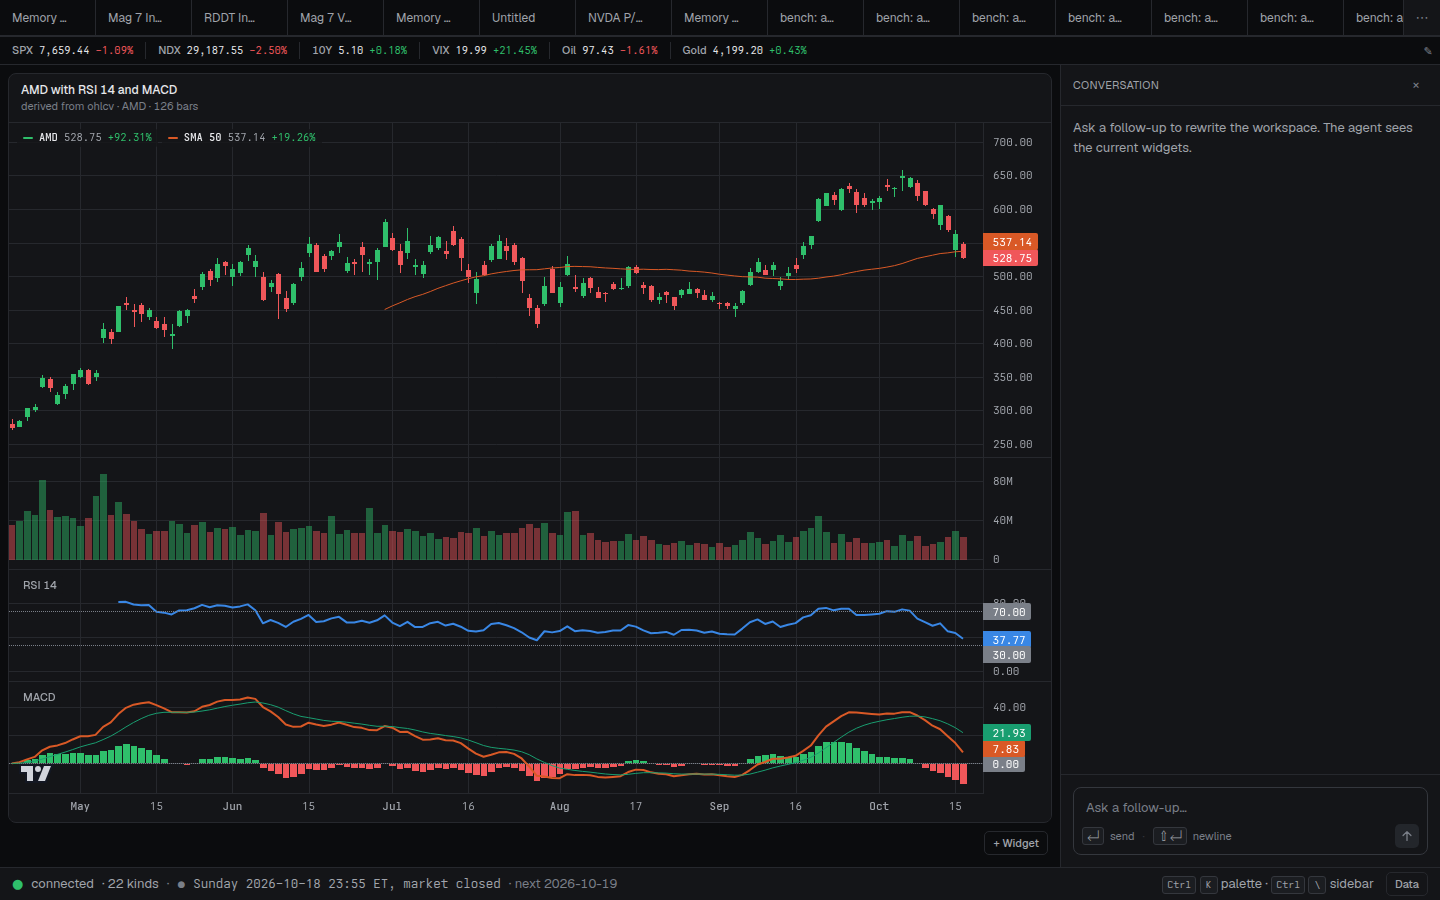
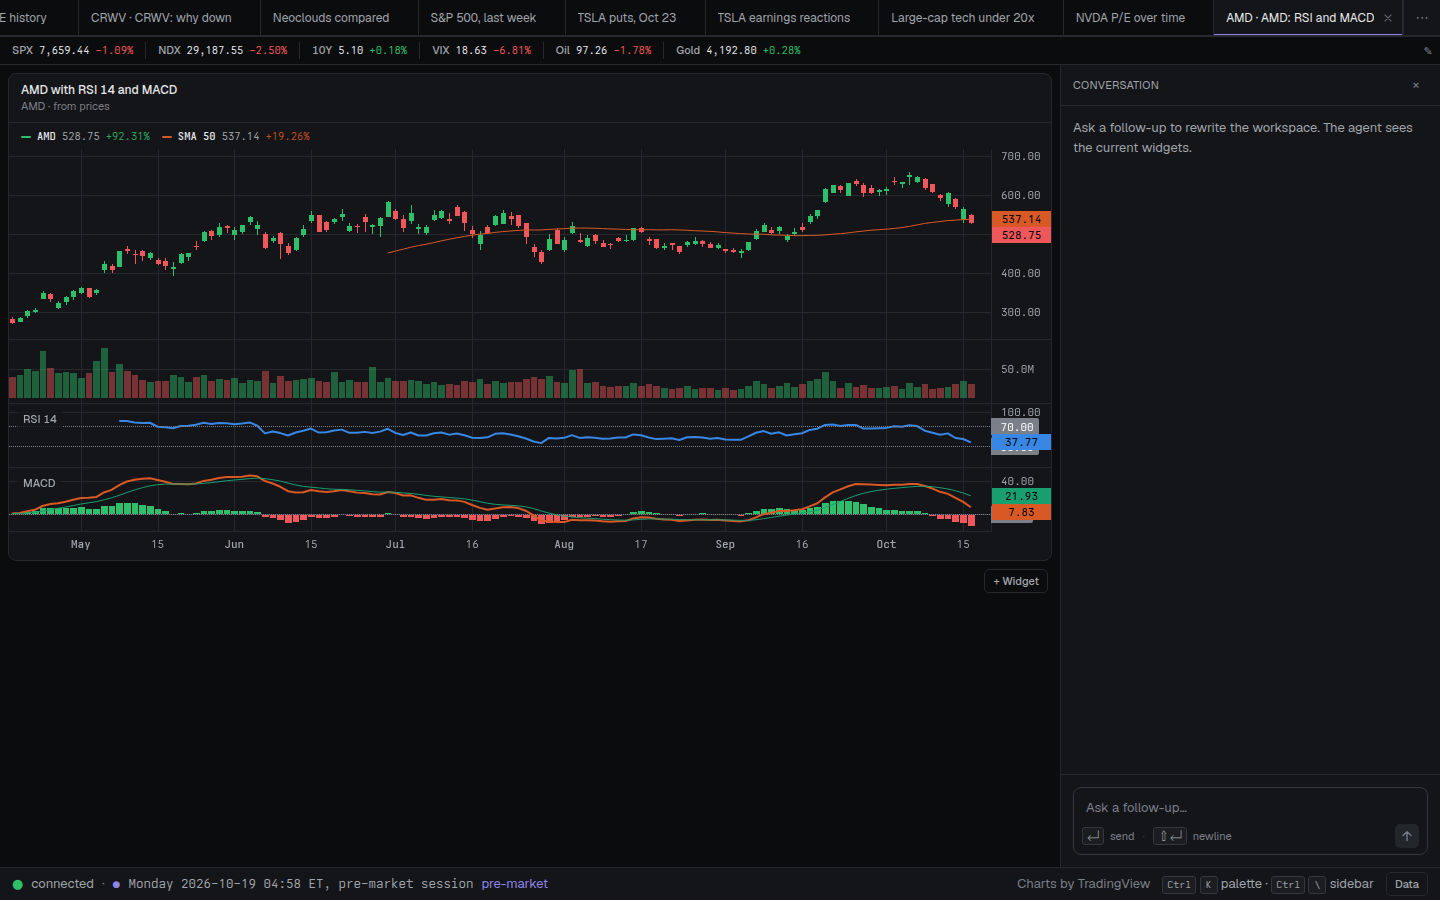
v2 taste round: final screenshots, the round in the acceptance note, PLAN.md corrections
Facts and stat labels wrap at words and values never truncate ("Median next-day mo… 8.…"); row cards use display names and enum readings; numeric columns are as wide as a word cell in them ("Strong buy" under APLD); accept.mjs waits for the selected tab to name the case's workspace. Screenshots: the twelve hand-built cases at both viewports (accept-<case>-<viewport>.png) and the six agent reruns (taste-after-agent-<case>-<viewport>.png). PLAN.md section 17 records the corrections the round made to the Instinct section, with the reasons.

diff --git a/packages/web/src/views/TableView.tsx b/packages/web/src/views/TableView.tsx
@@ -1,10 +1,11 @@
 import { useMemo, useState, type FC } from 'react'
 import clsx from 'clsx'
 import { columnIndex, controlFor, type Column, type Format, type Frame, type TableControl } from '@terminal/core'
-import { DataTable, EMPTY_CELL, EmptyState, direction, formatCell, type CellFormat } from '@terminal/ui'
+import { DataTable, EMPTY_CELL, EmptyState, direction, displayText, formatCell, type CellFormat } from '@terminal/ui'
 import type { ViewProps } from './types'
 import { VirtualTable } from '../components/VirtualTable'
 import { FactsCard } from './FactsCard'
+import { columnLabel } from './labels'
 import { controlOf, datasetsFor, emptyHintFor, primaryFrame, viewOf } from './fields'
 
 export type SortSpec = { column: string; dir: 'asc' | 'desc' }
@@ -155,10 +156,26 @@ export function rowExtremesFor(frame: Pick<Frame, 'columns' | 'rows'>, metricCol
 }
 
 /** A pivoted compare table: a text `metric` column first and numeric columns after it, one per symbol. */
-export function pivotMetricColumn(frame: Pick<Frame, 'columns'>): string | undefined {
+export function pivotMetricColumn(frame: Pick<Frame, 'columns' | 'rows'>): string | undefined {
   const first = frame.columns[0]
   if (!first || first.type !== 'string' || !/^(metric|field|item|measure|line)$/i.test(first.name)) return undefined
-  return frame.columns.slice(1).every((c) => c.type === 'number') && frame.columns.length >= 3 ? first.name : undefined
+  // Symbol columns are numbers, or mostly numbers when the pivot carries a row of words (a "Rating" row makes pandas
+  // type every symbol column as object).
+  const rest = frame.columns.slice(1).map((_, i) => i + 1)
+  return rest.length >= 2 && rest.every((i) => frame.columns[i]!.type === 'number' || mostlyNumeric(frame.rows, i)) ? first.name : undefined
+}
+
+/** At least four in five of a column's non-empty cells are numbers. */
+export function mostlyNumeric(rows: readonly unknown[][], i: number): boolean {
+  let n = 0
+  let num = 0
+  for (const r of rows) {
+    const v = r[i]
+    if (v == null || v === '') continue
+    n++
+    if (typeof v === 'number' || (typeof v === 'string' && v.trim() !== '' && Number.isFinite(Number(v)))) num++
+  }
+  return n > 0 && num / n >= 0.8
 }
 
 /** The frame projected onto the control's columns, in its order. */
@@ -182,7 +199,14 @@ export const TableView: FC<ViewProps> = ({ widget, frames }) => {
   const sort = state?.key === sortKey ? state.sort : table?.sort
 
   const projected = useMemo(() => (frame && table ? projectFrame(frame, table.columns) : frame), [frame, table])
-  const formats = useMemo(() => formatsOf(table), [table])
+  const formats = useMemo(() => {
+    const out = formatsOf(table)
+    // An object column of numbers (a pivot with a row of words) reads as numbers: right-aligned, two decimals (change 5).
+    if (projected) projected.columns.forEach((c, i) => {
+      if (out[c.name] === 'text' && c.type === 'string' && c.name !== projected.columns[0]?.name && mostlyNumeric(projected.rows, i)) out[c.name] = 'price'
+    })
+    return out
+  }, [table, projected])
   const extremes = useMemo(() => {
     if (!projected || !table) return undefined
     // A pivoted compare table (metrics as rows) marks across each row whether or not the control asked (the compare recipe's shape).
@@ -249,12 +273,13 @@ const RowCards: FC<{ frame: Frame; rows: unknown[][]; formats: Record<string, Ce
               {rest.map((c) => {
                 const v = row[columnIndex(frame, c)]
                 const f = formats[c] ?? 'text'
-                const text = formatCell(v, f)
+                const text = f === 'text' && typeof v === 'string' ? displayText(v) : formatCell(v, f)
                 const dir = f === 'change' ? direction(v) : null
                 return (
                   <div key={c} className="flex min-w-0 flex-col">
-                    <span className="truncate text-fg-3" title={labels[c] ?? c}>
-                      {labels[c] ?? c.replace(/_/g, ' ')}
+                    {/* Display names, wrapped at words rather than cut (change 11: "num estimates", "previous report date"). */}
+                    <span className="line-clamp-2 break-words text-fg-3" title={labels[c] ?? columnLabel(c)}>
+                      {labels[c] ?? columnLabel(c)}
                     </span>
                     <span className={clsx('line-clamp-2 break-words', f !== 'text' && 'num', text === EMPTY_CELL ? 'text-fg-3' : dir === 'up' ? 'text-up' : dir === 'down' ? 'text-down' : 'text-fg')} title={typeof v === 'string' ? v : undefined}>
                       {text}

diff --git a/packages/ui/src/components/DataTable.tsx b/packages/ui/src/components/DataTable.tsx
@@ -113,7 +113,11 @@ export function numberWidths(columns: readonly Column[], rows: readonly unknown[
     const fixed = columnWidth(c.name, f, headers[c.name])
     if (fixed === undefined || f === 'link') return
     let longest = 0
-    for (const row of rows) longest = Math.max(longest, formatCell(row[i], f, now).length)
+    for (const row of rows) {
+      const v = row[i]
+      const word = typeof v === 'string' && v.trim() !== '' && !Number.isFinite(Number(v))
+      longest = Math.max(longest, word ? displayText(v).length : formatCell(v, f, now).length)
+    }
     const head = headers[c.name] ?? ''
     const word = Math.max(...head.split(/\s+/).map((w) => w.length)) * 7.4 + 30
     // The header on one line when that costs at most 128px ("Op cash flow", "EPS est."), else wrapped at words.
@@ -299,7 +303,9 @@ export const DataTable: FC<DataTableProps> = ({ columns, rows, formats, sort, on
               {visible.map((c) => {
                 const f = fmts[c.name] ?? 'text'
                 const v = row[indexOf.get(c.name)!]
-                const text = f === 'text' && typeof v === 'string' && c.name !== 'symbol' && c.name !== 'etf' ? displayText(v) : formatCell(v, f, nowMs)
+                // A word in a numeric column (a pivot's "Rating" row: "Buy" under CRWV) shows as the word, not an em dash.
+                const word = typeof v === 'string' && isNumericFormat(f) && v.trim() !== '' && !Number.isFinite(Number(v))
+                const text = (f === 'text' || word) && typeof v === 'string' && c.name !== 'symbol' && c.name !== 'etf' ? displayText(v) : formatCell(v, f, nowMs)
                 const dir = f === 'change' ? direction(v) : null
                 const mark = cellMark?.(row, c.name)
                 const numeric = isNumericFormat(f)

diff --git a/packages/web/src/views/FactsCard.tsx b/packages/web/src/views/FactsCard.tsx
@@ -81,14 +81,15 @@ export const FactsCard: FC<ViewProps> = ({ widget, frames }) => {
               const long = typeof f.raw === 'string' && f.raw.length > 24
               return (
                 <div key={f.column} data-fact={f.column} className="flex min-w-0 items-baseline justify-between gap-2">
-                  <span className="truncate text-fg-3" title={f.label}>
+                  {/* The label wraps at words and the value never gives way: "Median next-day move 8.20%", not "Median next-day mo… 8.…". */}
+                  <span className="line-clamp-2 min-w-0 break-words text-fg-3" title={f.label}>
                     {f.label}
                   </span>
                   <span
                     data-field="value"
                     title={long ? String(f.raw) : undefined}
                     className={clsx(
-                      'min-w-0 truncate text-right',
+                      long ? 'min-w-0 truncate text-right' : 'shrink-0 text-right whitespace-nowrap',
                       f.format !== 'text' && f.format !== 'link' && 'num',
                       f.text === EMPTY_CELL ? 'text-fg-3' : f.dir === 'up' ? 'text-up' : f.dir === 'down' ? 'text-down' : 'text-fg',
                     )}

diff --git a/packages/web/src/views/__tests__/TableView.test.tsx b/packages/web/src/views/__tests__/TableView.test.tsx
@@ -177,6 +177,14 @@ describe('TableView from the table control (v2)', () => {
     expect(ex.get(frame.rows[2]!)).toEqual({ IREN: 'best', NBIS: 'worst' })
   })
 
+  it('treats symbol columns typed as strings by a row of words as numbers (a pivot with a Rating row)', () => {
+    const frame = { columns: [{ name: 'metric', type: 'string' as const }, { name: 'CRWV', type: 'string' as const }, { name: 'NBIS', type: 'string' as const }], rows: [['EV/Revenue', 10.53, 35.06], ['Gross margin %', 70, 60], ['Market cap ($B)', 33.86, 42.01], ['Upside to target (%)', 128.99, 71.39], ['Rating', 'buy', 'buy']] }
+    expect(pivotMetricColumn(frame)).toBe('metric')
+    const ex = rowExtremesFor(frame, 'metric', ['CRWV', 'NBIS'])
+    expect(ex.get(frame.rows[0]!)).toEqual({ CRWV: 'best', NBIS: 'worst' })
+    expect(ex.get(frame.rows[4]!)).toBeUndefined()
+  })
+
   it('a table over one row renders the facts card (product rule 8)', () => {
     const { widget, frames } = fixture('v2-table-one-row')
     render(<TableView widget={widget} frames={frames} />)

diff --git a/packages/web/src/views/StatView.tsx b/packages/web/src/views/StatView.tsx
@@ -265,7 +265,7 @@ export const StatView: FC<ViewProps> = ({ widget, frames }) => {
             <div data-details="" className="grid grid-cols-2 gap-x-5 gap-y-1.5 border-t border-border/60 pt-2.5 text-xs leading-5 @[360px]/widget:grid-cols-3">
               {details.map((d) => (
                 <div key={d.label} className="flex min-w-0 items-baseline justify-between gap-2">
-                  <span className="truncate text-fg-3">{d.label}</span>
+                  <span className="line-clamp-2 min-w-0 break-words text-fg-3">{d.label}</span>
                   <span className="num whitespace-nowrap text-fg-2">{d.text}</span>
                 </div>
               ))}

diff --git a/docs/notes/accept-v2-2026-10-19.md b/docs/notes/accept-v2-2026-10-19.md
@@ -235,3 +235,24 @@ The three user prompts pass; the twelve acceptance prompts pass the rubric and t
 ## What the agent run will add
 
 With credit on the account: `BASE=http://127.0.0.1:4270 node scripts/prompt-bench.mjs --group v2-accept --out <dir>` builds the twelve workspaces through the agent, `node scripts/accept.mjs --runs <dir> --out docs/screenshots` scores them (now with the reply columns live: verification, chips, plain prose), and `--group v2` and `--group v1` give the rubric and regression runs. The hand-built fixtures are the expected shape per case; a diff between what the agent builds and `scripts/accept-cases.mjs` is the first thing to read.
+
+## Taste round (2026-10-19, PR "v2 taste round: the critic's fifteen changes")
+
+The critic's note (`docs/notes/taste-v2-2026-10-19.md`) scored the set 5 of 10 against Instinct and ranked fifteen changes. All fifteen landed on the branch `taste-round` in six commits (1; 2 and 3; 4; 5 to 7; 8 to 10; 11 to 13; 14 and 15) plus one commit of fixes found in the agent rerun, with `openterminal/main` (phase 3a) merged in before change 5. Server: the branch build on `127.0.0.1:4270` over a fresh copy of `~/.terminal`; Playwright's cached Chromium revision no longer matched the library, so `scripts/accept.mjs` takes `CHROMIUM_PATH`.
+
+Hand-built workspaces (`accept.mjs --build`), four rounds: 13 of 24 (after changes 1 to 4: the legend above the plot was not counted as chart content, and content-sized stat and facts cards sat at 35 to 58% of a tall 1920 cell), 23 of 24 (a sized text column overflowed the calendar table at 1440), then 24 of 24 twice; final screenshots `docs/screenshots/accept-<case>-<viewport>.png`.
+
+Agent, one prompt at a time (`prompt-bench.mjs <name> --out <dir>`, then `accept.mjs --runs <dir> --prefix accept-agent-`): the three user prompts and three of the critic's lowest-scored cases (nvda-pe 4, tsla-earnings 5, spy-backtest 5). Every reply verified every figure. Checklist 12 of 12 at the end, after four fixes the screenshots asked for (below). Final screenshots `docs/screenshots/taste-after-agent-<case>-<viewport>.png`; the critic's set is `accept-agent-<case>-<viewport>.png` on main.
+
+| case | verified | checklist 1440 / 1920 | the critic's "change first", now |
+|---|---|---|---|
+| crwv | 15/15 | pass / pass | CRWV's own candles with the news pins and the volume spike are the hero; peers beside it; the bonds table is on screen at 1440; the quotes are cards; badges 71.86/71.08 stack. Reply rounds "95M shares against a 32M average". |
+| neoclouds | 23/23 | pass / pass | The compare table is on screen at 1440, two grid columns wide with all four symbols, left-packed, best/worst bars per comparative row; no table at the far right of a 1,500 px widget. Reply still three paragraphs, paragraph 2 dense but rounded ("$51.6B", "1,027%"). |
+| spx | 35/35 | pass / pass | No red diagnostic: a muted "35 figures verified against the data" footer; chips at paragraph ends; the week is a faint band with 1px edges ending on Friday; index levels read 7,659.44. Candles are still wide (see below). |
+| nvda-pe | 15/15 | pass / pass | The P/E widget plots P/E (30.5x badge, 28 to 64 axis); no duplicate price chart; the stat's companions come from the newest row. |
+| tsla-earnings | 16/16 | pass / pass | "Next report" has one hero at body-size date and "After the close"; the reactions table marks only the signed moves with 2px bars; E pins sit on the line. Reply: "consensus $0.21, though another source shows $0.45". |
+| spy-backtest | 19/19 | pass / pass | The SMA chart is landscape under the equity curve with its x-axis; the trades table is on screen at 1920 with sentence-case headers ("Entry", "Exit date", "Status" centred). |
+
+Found by looking and fixed in the rerun commit: the "P/E (TTM)" widget drew the close (a dataset's declared key field is now the plotted measure, and the P/E example marks `pe` as key); a stat over a time series showed companions from the oldest row; a Mag 7 legend hid its seventh chip (chips past four series drop the last value and may take a third row); a pivoted compare table typed its symbol columns as strings because of a "Rating" row (mostly-numeric object columns read as numbers, and its marks work); the strike and tenor axes printed raw numbers because the price-based horizontal scale ignores `tickMarkFormatter`; facts labels truncated ("Median next-day mo… 8.…"); `accept.mjs` screenshotted the previous session's tab for its first case, and a hand-built `--build` deletes an agent workspace of the same name (rerun the agent case after).
+
+Not done as the critic wrote it: candles are not capped at 14px. `maxBarSpacing` caps them, but with twenty bars of a month in a 640px plot the cap left the right half of the plot empty, which read worse than wide candles. The TradingView attribution moved to the status bar once rather than to every widget's footer. Changes 1 to 3 were the previous bot's; the content-sized stat and facts cards they introduced now anchor the hero at the top and the grid at the foot of a tall cell, and compact cards share the cell's height (72 to 128px), so the checklist's fill rule holds without stretching them into slabs.

diff --git a/PLAN.md b/PLAN.md
@@ -490,6 +490,8 @@ Theme pass, recordings of the three use cases for the README, fresh-clone `npx t
 
 ## 17. v2: routes replace kinds (proposal)
 
+**Taste round done 2026-10-19 (PR "v2 taste round: the critic's fifteen changes").** A design critic scored the acceptance set 5 of 10 against the Instinct reference and ranked fifteen changes (`docs/notes/taste-v2-2026-10-19.md`); all fifteen landed, with the round recorded in `docs/notes/accept-v2-2026-10-19.md` (hand-built 24 of 24, six agent prompts 12 of 12 with every figure verified). Corrections to this section, with the reason: the price pane's legend sits above the plot (a column beside it past four series in a widget 640px or wider), not inside its top-left, because with five to seven series the chips covered a third of the plot with the lines drawn behind them; last-value badges are drawn by the view as HTML, stacked when closer than 16px and covering the tick under them, because the library's badges collided (537.14/528.75); the categorical palette has seven hues (blue, orange, aqua, yellow, violet, magenta, cyan; the reference's green dropped) because the Mag 7 showed three greens; event markers are pins anchored above the bar's high, not library markers at a fixed offset; the yield curve and strike axes are categorical (one slot per tenor or strike) through `createOptionsChart`, not `createYieldCurveChart`, because the 1M to 6M end was a cliff at x = 0; counts by strike are paired bars with the underlying as a rule; best and worst marks go only on comparative columns, as a 2px bar, never a fill; a five-column table keeps two grid columns so a compare table does not shed the symbols it compares; the reply's unverified figures are underlined in place with a muted count, not listed in red; chips move to the end of their paragraph in the renderer; prompt rule 11 sets the voice (desk note, rounded figures, no provider or dashboard talk). Candles are not capped at 14px: the cap left half a month's plot empty.
+
 **Status: phase 3a done 2026-10-19 (PR "v2 phase 3a: remove the kind code; recipes and routes serve everything").** The kind code is gone: `packages/core/src/kinds.ts` and its 22 schemas, the `LegacyQuery` branch of the query, registry and cache, the v1 `WidgetSchema`/`ViewSchema`/`parseWidget`/`STAT_KEY_COLUMN`, `defineConnector`'s `queries` form and `descriptorFromKind`, the three connectors' per-kind handlers (OpenBB's 600-line `index.ts` is the descriptor generator plus a 30-line caller; yahoo's fourteen modules and finnhub's three handlers are gone, their routes stay), the agent tools' kind acceptance and the recipe-failure kind hint, the `{ kind }` and positional forms of `pnpm query`, the web's `views/legacy.ts` kind tables, `formatsFor`, `KIND_PRIORITY`, the v1 widget editor and `frameMatches`, the `*:kind:*` annotation block. `migrateWidget` still reads the v1 JSON shape through a local `LegacyWidgetSchema` and `AnyWidgetSchema` migrates on parse, so every stored workspace loads (all 37 production widgets are v1 and migrate). Before the deletion, the nine recipes whose kind handler did work the raw route does not gained that work in their data graph, each tested end to end through the registry and the Pyodide engine over fixture rows: `search` (nasdaq listing-exchange codes to names, ten rows), `earnings` (`session` from the provider's word), `estimates` (consensus joined to the 0q/0y EPS estimates, `upside_pct`), `dividends`, `insiders` and `short_interest` (the newest `limit` rows per symbol), `insiders` (`action` and `value`), `institutions` (nasdaq's thousands to dollars), `options` (yahoo's column names), `yield_curve` (maturity labels). Sections 7.1 and 14 are marked superseded. 602 tests, typecheck and lint green; the web app builds; three production workspaces open on the branch server with every migrated widget rendering a frame (`docs/screenshots/phase3a-*.png`). Corrections from 3a, with the reason:
 
 - The per-kind subtitle was on the "Removed" list ("route summary plus the params that matter"), but it stays, keyed by recipe name over the primary dataset's params and frame (`subtitleForRecipe`): "NVDA · 5m · today, candles" and "4 symbols · regular session" read better than a route path, and the route and transform cases do fall back to the path or the inputs. Marker kind columns lose `session`: with `session` on every earnings frame, earnings markers would have been keyed bmo/amc instead of "E".
